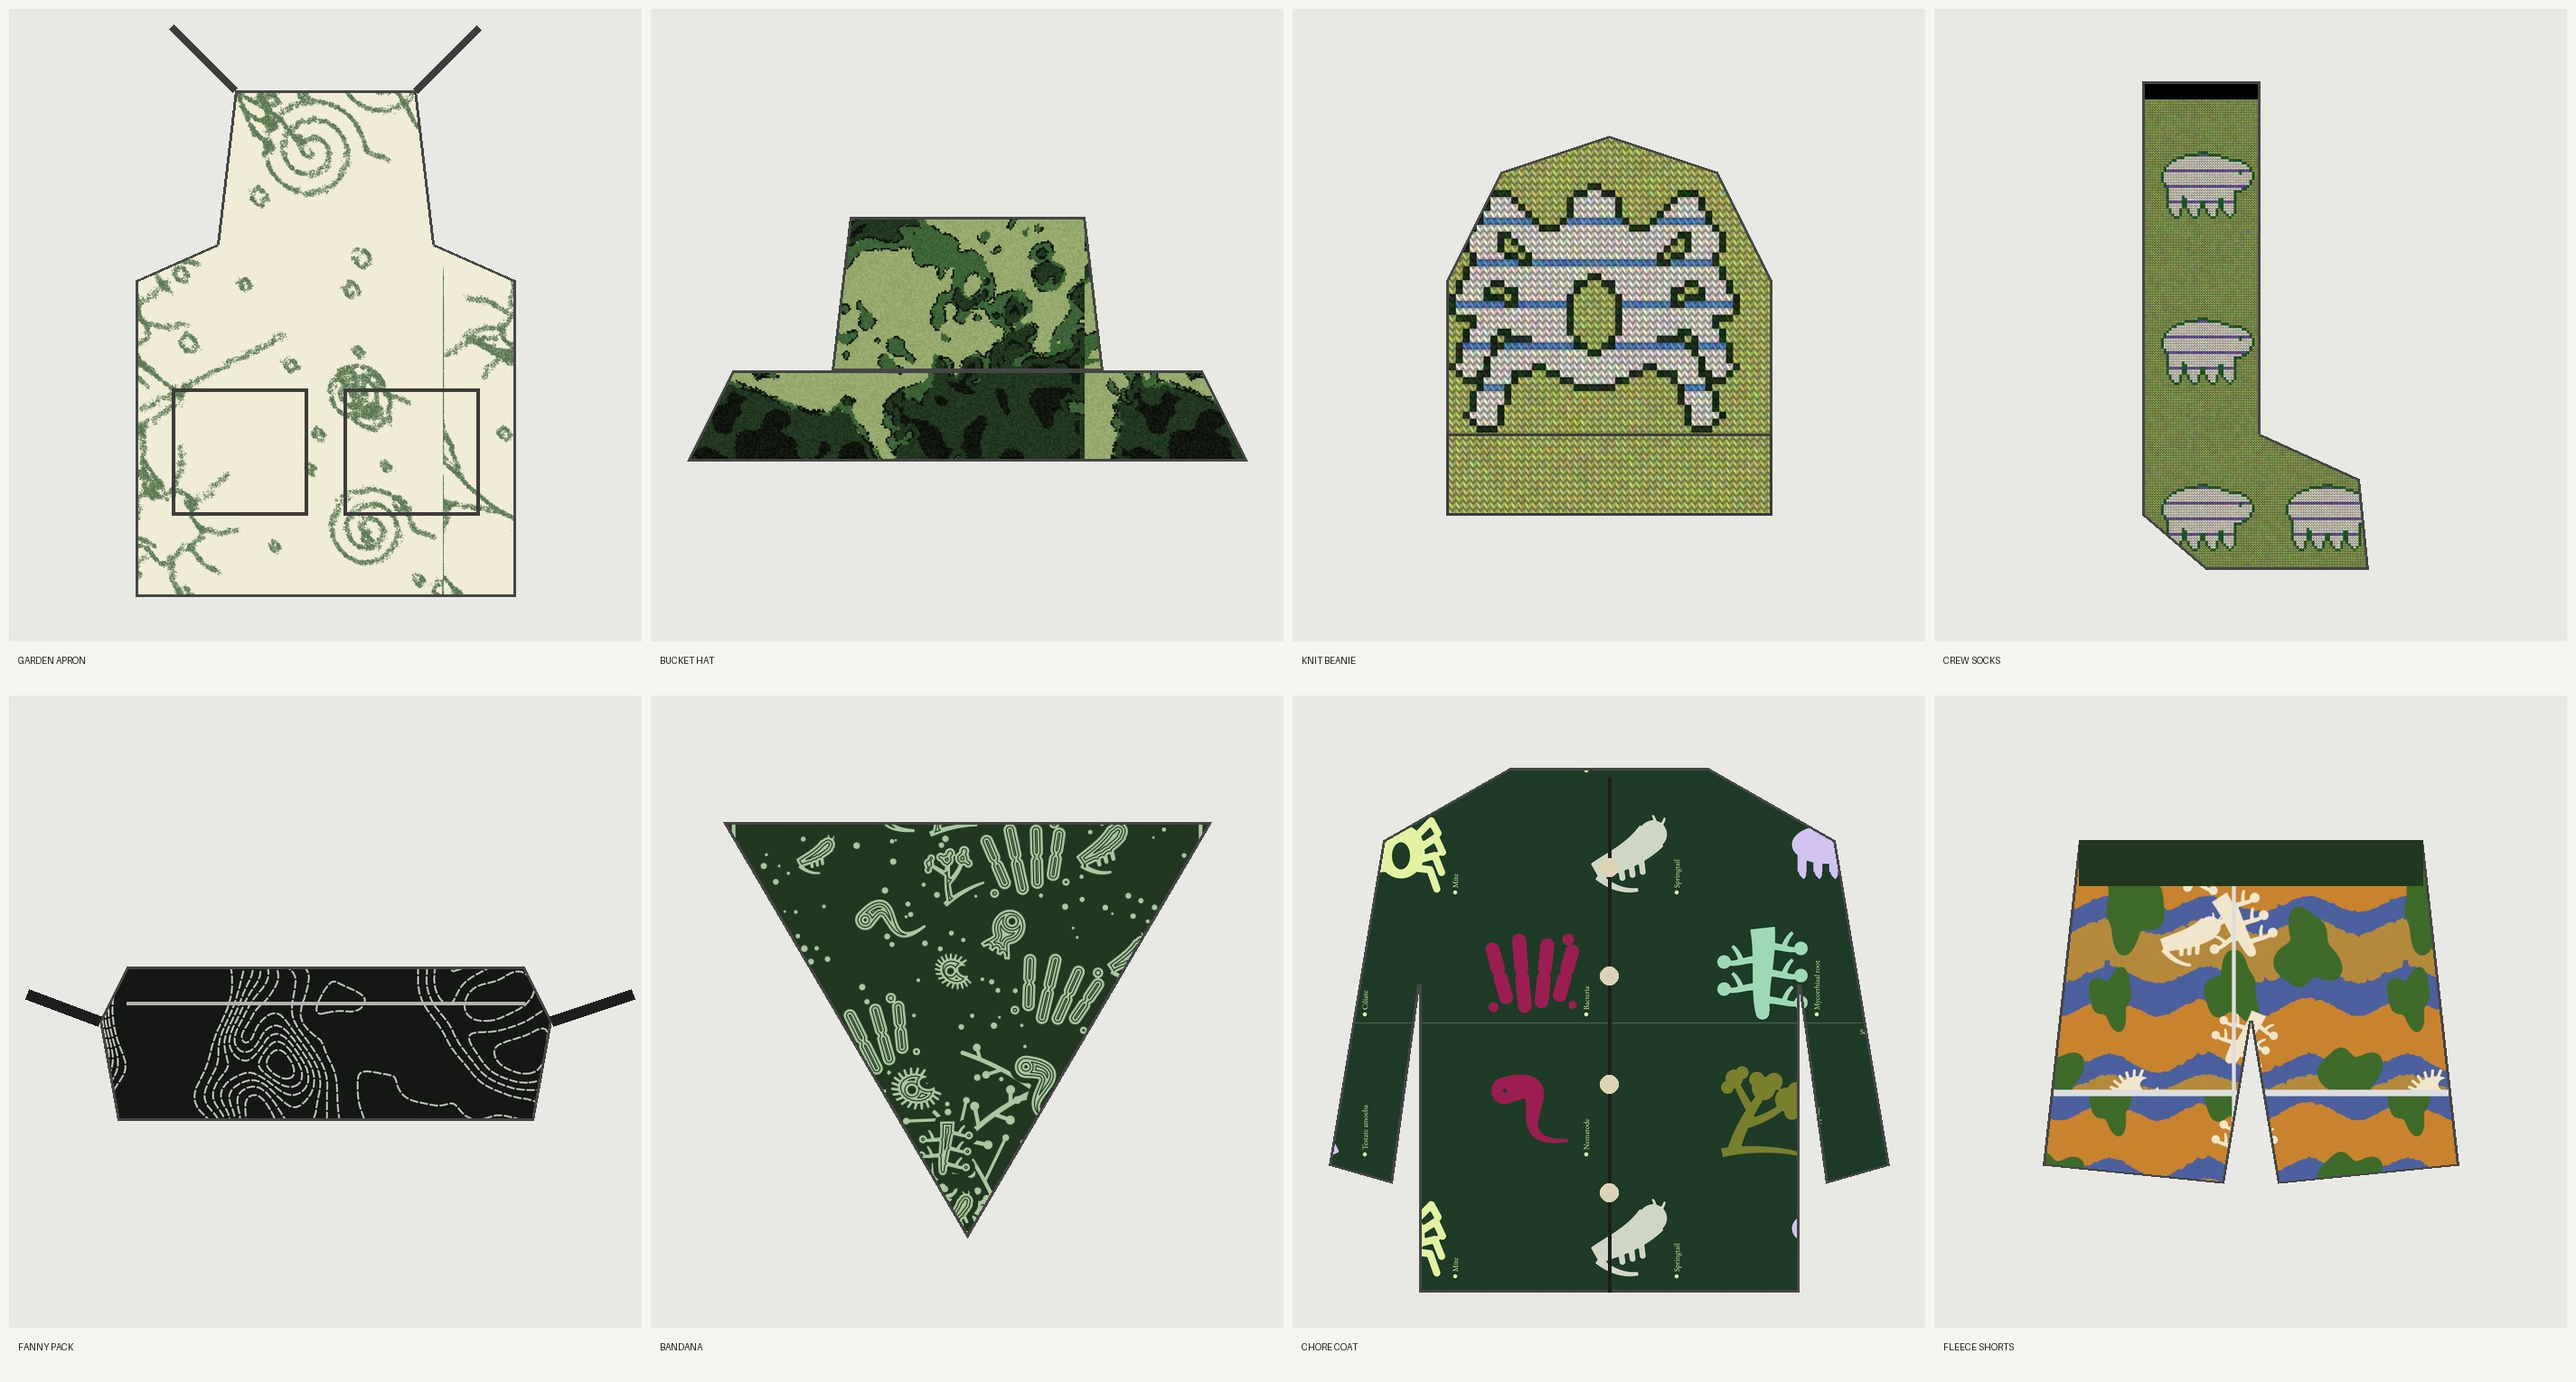
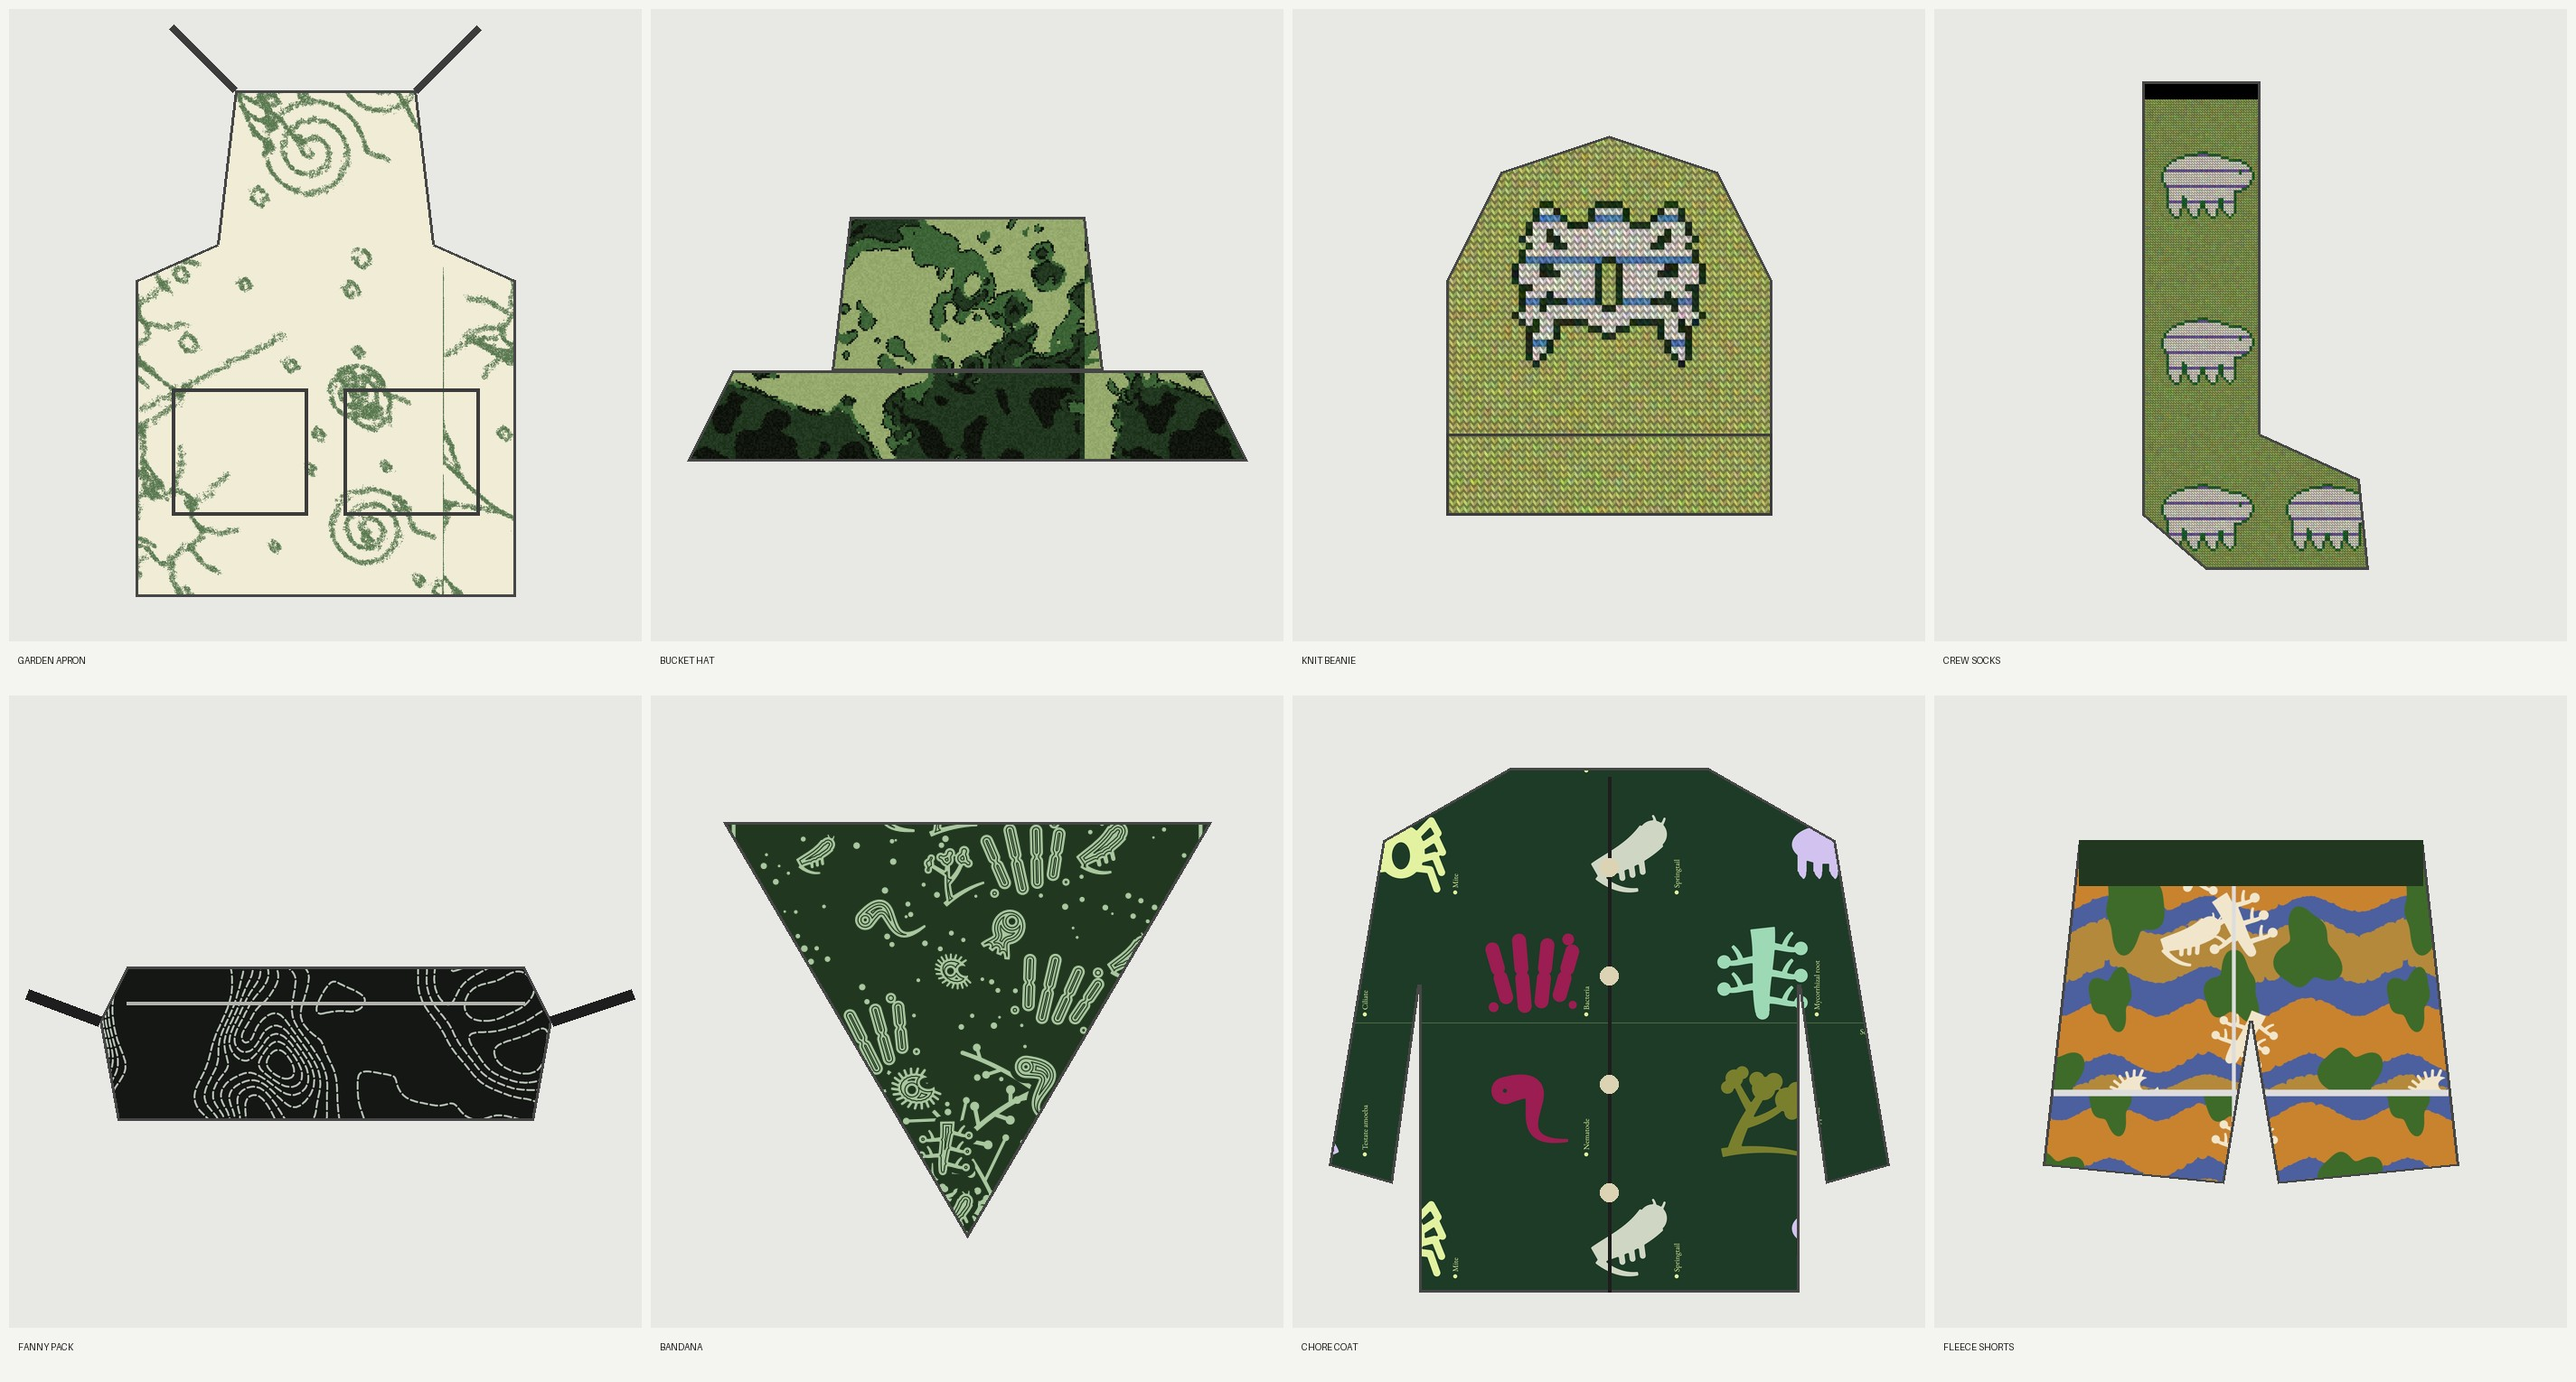
Beanie: smaller mite
Claude-Session: https://claude.ai/code/session_019Ej1kUfXqbXfdi9TQXfn9k

Changed region(s): [[0.5621, 0.0922, 0.687, 0.3686]]

diff --git a/fashion/garments.py b/fashion/garments.py
@@ -36,6 +36,17 @@ def piece(polys, fill, outline=(70, 70, 70), extra=None, bg=(232, 232, 229)):
     return can
 
 
+def beanie_fill():
+    """Smaller mite, centred above the cuff, on plain knit ground."""
+    sys.path.insert(0, os.path.join(HERE, "..", "fine-art"))
+    import knit, cutouts
+    g, body, stripe, line = knit.YARNS["Mite"]
+    sw = knit.render(knit.chart(cutouts.mite, 48, 60, (11, 10, 26)), [g, body, stripe, line], np.random.default_rng(5)).convert("RGB")
+    sw = sw.resize((int(sw.width * .32), int(sw.height * .32)), Image.LANCZOS)
+    f = Image.new("RGB", (C, C), g); f.paste(sw, (166, 113))
+    return f
+
+
 def main():
     os.makedirs(OUT, exist_ok=True)
     knit_mite = load(os.path.join(FA, "knit", "mite-swatch.png"), .45)
@@ -58,7 +69,7 @@ def main():
     # bucket hat in soil camo
     P["bucket-hat"] = piece([[(220, 230), (480, 230), (500, 400), (200, 400)], [(90, 400), (610, 400), (660, 500), (40, 500)]], tile(camo, C, C))
     # knit beanie with the mite
-    P["knit-beanie"] = piece([[(170, 560), (170, 300), (230, 180), (350, 140), (470, 180), (530, 300), (530, 560)]], tile(load(os.path.join(FA, "knit", "mite-swatch.png"), .32), C, C, -150, -70),
+    P["knit-beanie"] = piece([[(170, 560), (170, 300), (230, 180), (350, 140), (470, 180), (530, 300), (530, 560)]], beanie_fill(),
                              extra=lambda d: d.rectangle((170, 470, 530, 560), outline=(60, 60, 60), width=3))
     # crew socks, knit tardigrade
     sock = [(230, 80), (360, 80), (360, 470), (470, 520), (480, 620), (300, 620), (230, 560)]
